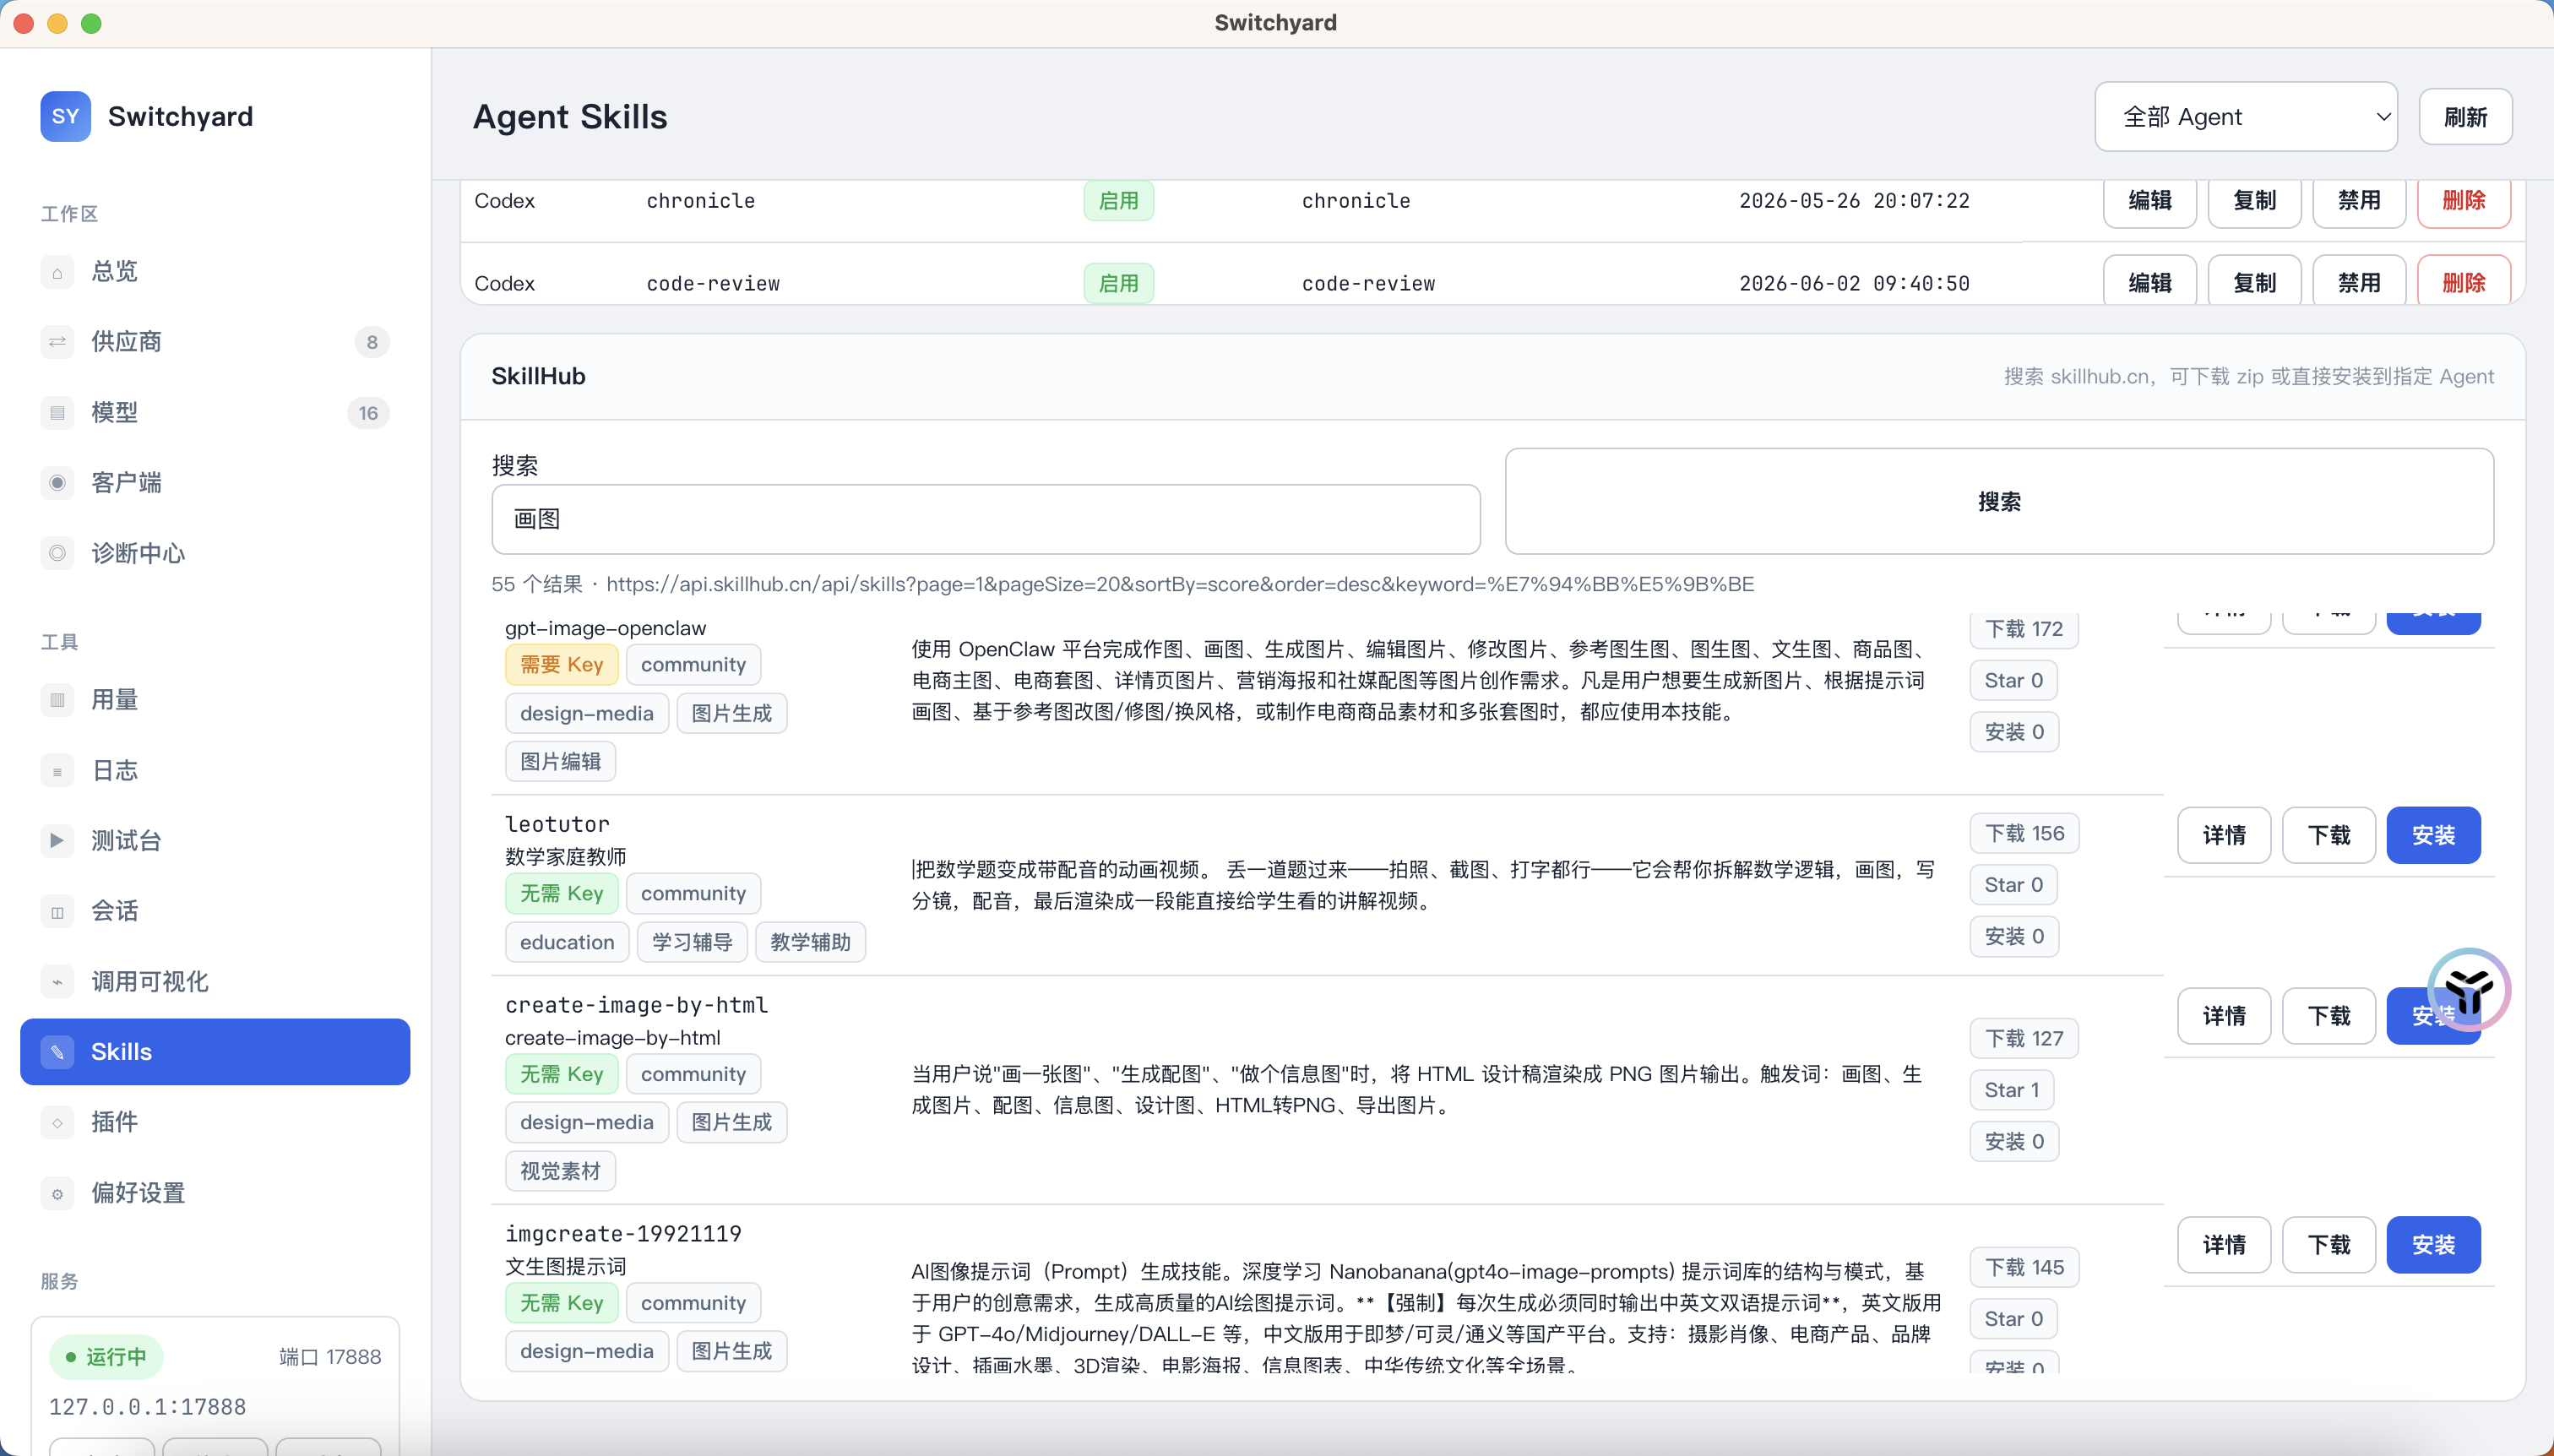
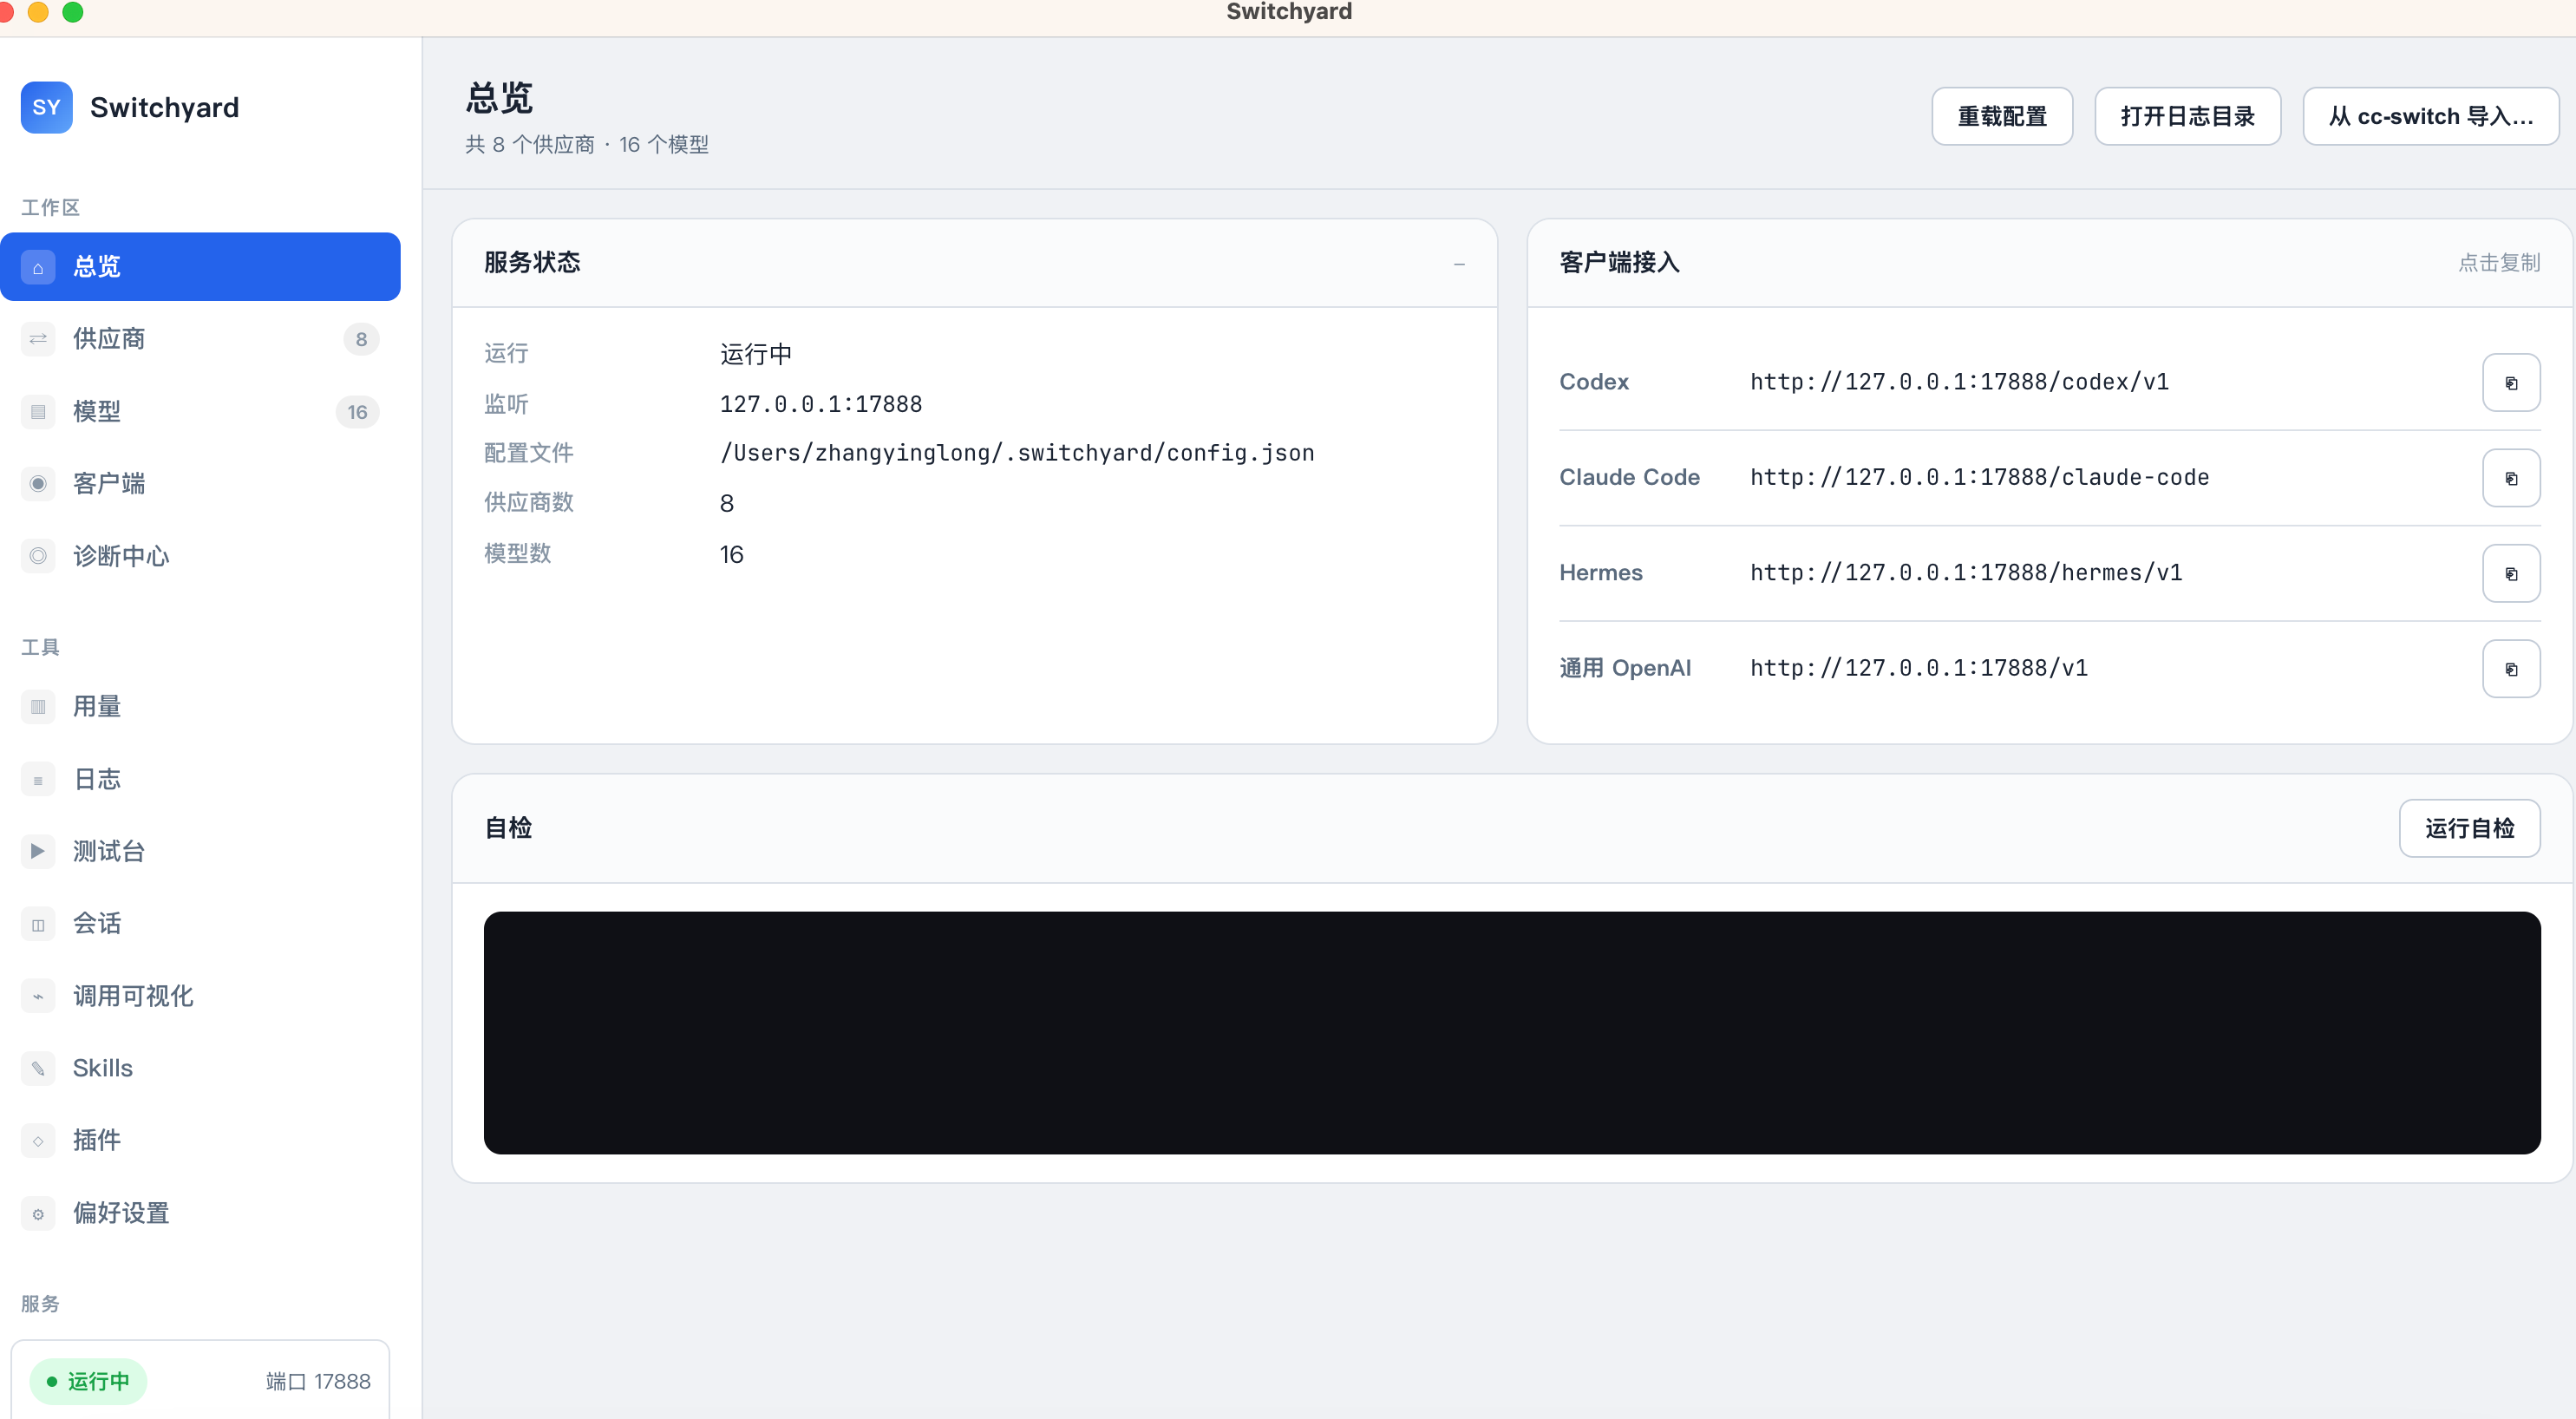
docs: 全部截图就位——六大核心能力配图完成
- 总览页、Codex/Claude Code 模型选择器
- 诊断中心可用性 + 兼容性校准
- 会话列表 + 会话详情格式化展示
- 调用可视化请求面板
- Skills 本地管理 + SkillHub 搜索安装
- DeepSeek 视觉兜底效果
- Codex 官方直连/代理模式切换

diff --git a/README.md b/README.md
@@ -12,7 +12,7 @@
 
 - 在 **Codex** 里只能用官方模型，DeepSeek 的思考和速度、Kimi 的性价比、GLM 的性价比——全和你无关
 - 换成 **Claude Code**，又要重新配置一遍 API Key，两边的模型列表从来不统一
-- **cc-switch** 能让 Claude Code 看到第三方模型，但 Codex 不行；换个工具又要重新折腾
+- **cc-switch** 能配置三方模型，但每次切换都需要点击一下启用某个供应商的模型，相关agent仅能看到该供应商下的模型
 - 模型多了以后根本不知道哪个挂了、哪个可用——打开终端一条条 `curl` 试？还是盲猜？
 - DeepSeek 不支持贴图，报错了也不知道为什么；想换个支持视觉的模型又要切来切去
 - 想看某个代理发了什么 prompt、为什么那个请求失败了——日志散落在各个地方，根本拼不起来
@@ -21,8 +21,8 @@
 
 ---
 
-<!-- 截图占位：总览页 -->
-![总览](docs/assets/screenshots/01-overview.png)
+![Switchyard 总览](docs/assets/screenshots/01-overview.png)
+
 
 ---
 
@@ -36,8 +36,8 @@ Switchyard 把你在所有平台申请的模型——OpenAI、DeepSeek、Kimi、
 
 > 你不再需要记「Codex 用的是哪个 key」「Claude Code 配了哪几个模型」。一个地方改，全部自动同步。
 
-<!-- 截图占位：Codex 模型选择器展示所有供应商模型 -->
-<!-- 截图占位：Claude Code /model 列表展示跨供应商模型 -->
+![Codex 模型选择器](docs/assets/screenshots/02-codex-models.png)
+![Claude Code 模型列表](docs/assets/screenshots/03-claude-code-models.png)
 
 **支持的供应商（持续扩充）：**
 
@@ -66,8 +66,8 @@ Switchyard 把你在所有平台申请的模型——OpenAI、DeepSeek、Kimi、
 - 每个供应商的协议兼容性：是否存在不支持的参数、Schema 不匹配等潜在问题
 - 按模型 / 供应商 / 代理的切面统计请求成功率、平均延迟、Token 消耗
 
-<!-- 截图占位：诊断中心 - 可用性面板 -->
-<!-- 截图占位：诊断中心 - 兼容性报告 -->
+![诊断中心 - 可用性面板](docs/assets/screenshots/04-diagnostics-availability.png)
+![诊断中心 - 兼容性报告](docs/assets/screenshots/05-diagnostics-compatibility.png)
 
 错误自动分类（认证失败、上游拒绝、协议不兼容、网络不可达），每条都有明确的修复建议。一键导出 sanitized 诊断包，自动剥离敏感信息，可以直接发给同事排查。
 
@@ -84,7 +84,9 @@ Switchyard 解析 Codex、Claude Code、Hermes 的本地会话存档，提供统
 - 支持会话内容格式化渲染——Codex 的 Responses Protocol、Claude Code 的 Messages Protocol 统一展示
 - 在官方直连模式和代理模式间切换时，**已有会话的 model_provider 自动迁移，对话记录不丢失**
 
-<!-- 截图占位：会话页 - 会话列表 + 格式化展示 -->
+![会话列表](docs/assets/screenshots/06-sessions-list.png)
+
+![会话详情](docs/assets/screenshots/07-sessions-detail.png)
 
 ---
 
@@ -98,7 +100,7 @@ Switchyard 解析 Codex、Claude Code、Hermes 的本地会话存档，提供统
 - 请求方法和路径的协议信息、上游模型路由
 - 每条请求可展开查看详细元信息：协议转换链、激活的兼容补丁、请求覆盖
 
-<!-- 截图占位：调用可视化 - 展开单条请求详情 -->
+![调用可视化](docs/assets/screenshots/08-call-visualization.png)
 
 这意味着你可以：
 - **学习 Codex / Claude Code 如何构造 prompt**，把优秀工程实践用在自己的场景里
@@ -116,8 +118,8 @@ Skill 管理面板让你统一管理 Codex 和 Claude Code 的 Skills：
 - **接入腾讯 Skill Hub**：搜索官方和社区的 Skills，一键安装
 - 支持 Marketplace 管理：浏览、安装、卸载
 
-<!-- 截图占位：Skills 页 - Hub 浏览 -->
-<!-- 截图占位：Skills 页 - 搜索安装 -->
+![Skills Hub 浏览](docs/assets/screenshots/10-skillhub.png)
+![Skills 搜索安装](docs/assets/screenshots/09-skills.png)
 
 ---
 
@@ -125,13 +127,13 @@ Skill 管理面板让你统一管理 Codex 和 Claude Code 的 Skills：
 
 **让 DeepSeek 这样不支持图片的模型也能"看图"。**
 
-很多高性价比模型的 API 不支持图片输入（如 DeepSeek v3、Kimi），Switchyard 内置视觉 Fallback 引擎：
+很多高性价比模型的 API 不支持图片输入（如 DeepSeek v4-pro、GLM5.2），Switchyard 内置视觉 Fallback 引擎：
 
 > 贴图 → Switchyard 自动用视觉模型描述图片 → 将文字描述注入 prompt → 发送给目标模型
 
-<!-- 截图占位：在 Codex 里给 DeepSeek 贴图，回复正确识别图片内容 -->
+![DeepSeek 识图](docs/assets/screenshots/11-vision-fallback.png)
 
-配置简单：在模型配置中开启「视觉 Fallback」并指定一个兜底视觉模型（如 GPT-5.5 / GLM-5.2）。之后所有向该模型发送的图片请求，都会自动走描述→注入流程。
+配置简单：在模型配置中开启「视觉 Fallback」并指定一个兜底视觉模型（如 xiaomi V2.5）。之后所有向该模型发送的图片请求，都会自动走描述→注入流程。
 
 ---
 
@@ -142,11 +144,11 @@ Skill 管理面板让你统一管理 Codex 和 Claude Code 的 Skills：
 | 方式 | 原理 | 风险 |
 |------|------|------|
 | **官方直连**（推荐） | Codex 直接调用 OpenAI 官方 API，Switchyard 仅提供 model_provider 元数据 | 无封号风险 |
-| **代理模式** | 请求经过 Switchyard 网关转发，使用 OAuth 令牌代理到 ChatGPT Codex | ⚠️ 存在被识别为代理、导致封号的风险 |
+| **代理模式** | 请求经过 Switchyard 网关转发，使用 OAuth 令牌代理到 ChatGPT Codex | ⚠️ 尽管像Hermes，ccswitch等开源项目做了官方调用header特征提取兼容，但是不排除官方更新特征，存在被识别为代理、导致封号的风险 |
 
 **我们强烈建议 Codex 用户使用官方直连方式。** 在客户端配置页面可以一键切换两种模式。使用代理模式前请充分评估风险。
 
-<!-- 截图占位：客户端页 - Codex 接入模式切换 -->
+![接入模式切换](docs/assets/screenshots/12-official-direct.png)
 
 ---
 